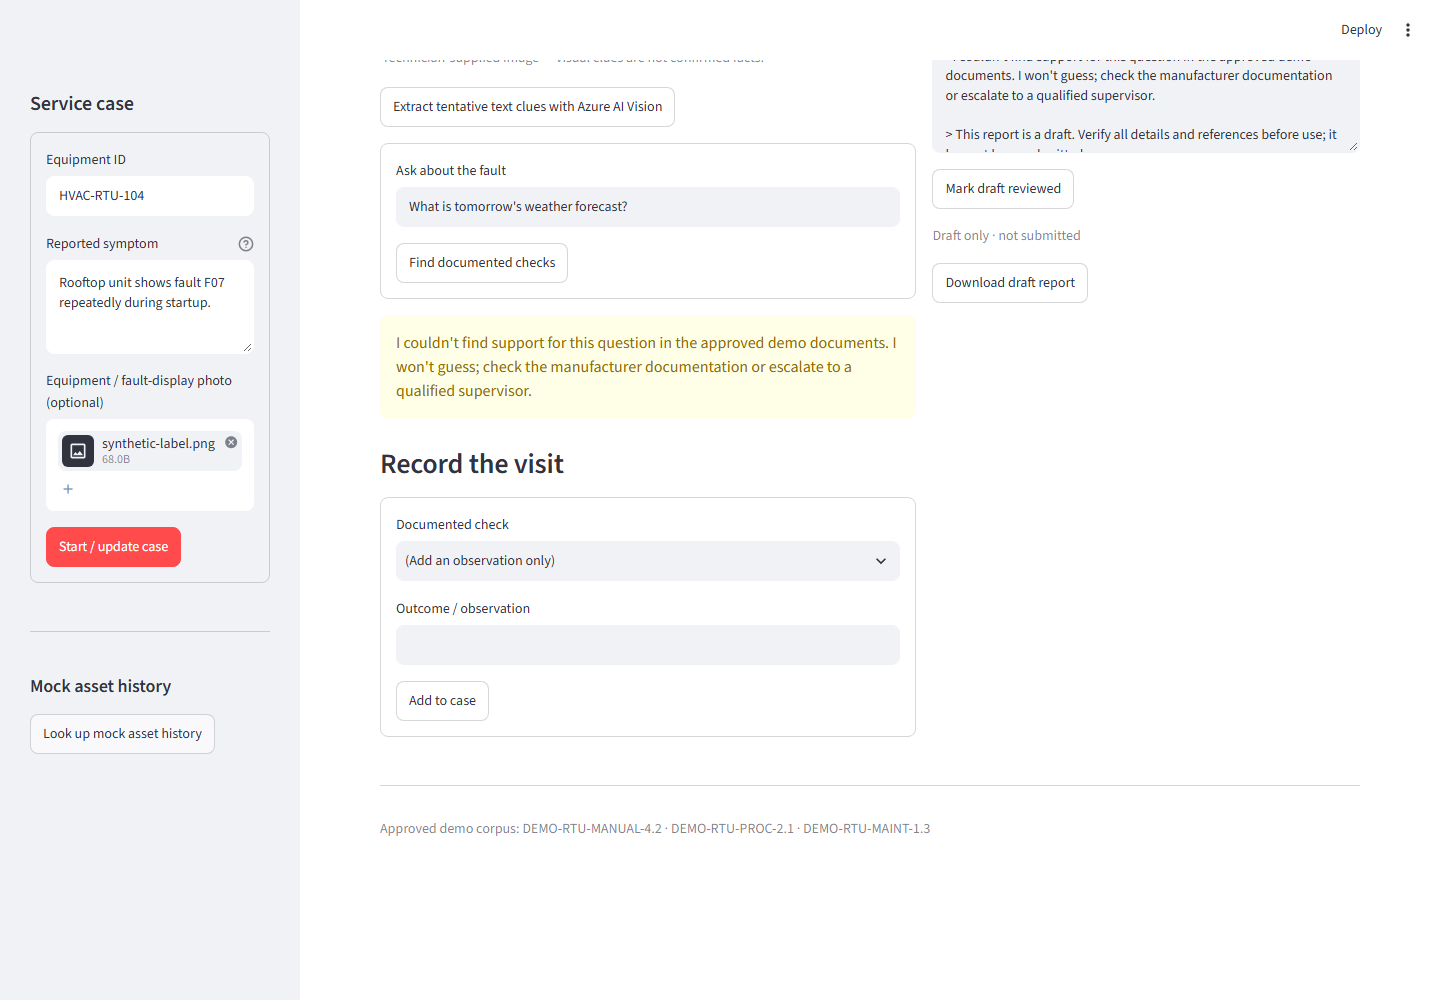
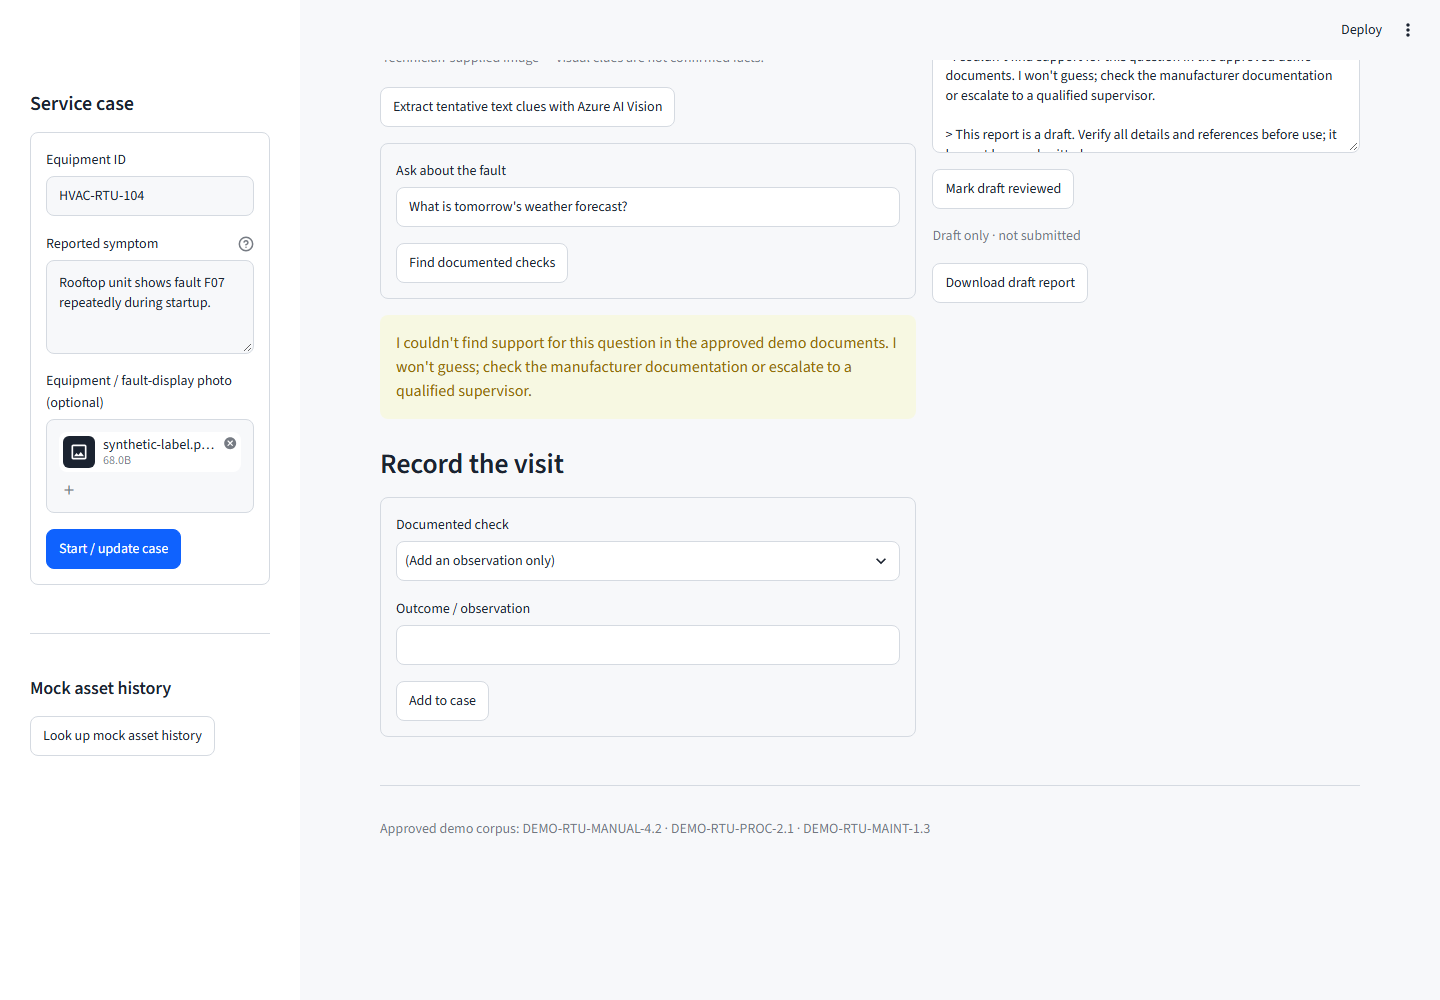
Apply Calm Evidence Workspace theme (#15)

Changed region(s): [[0.0312, 0.682, 0.1562, 0.744], [0.0312, 0.527, 0.125, 0.589], [0.0312, 0.434, 0.1562, 0.465]]

diff --git a/app.py b/app.py
@@ -62,6 +62,18 @@ def _render_explanation(result: dict) -> None:
 
 
 st.set_page_config(page_title="Field Technician Copilot", page_icon="🧰", layout="wide")
+st.markdown(
+    """
+    <style>
+    .block-container { max-width: 1200px; padding-top: 2rem; }
+    h1 { letter-spacing: -0.02em; }
+    [data-testid="stVerticalBlockBorderWrapper"] { background: #FFFFFF; border-radius: 12px; }
+    [data-testid="stExpander"] { background: #FFFFFF; border-radius: 12px; }
+    [data-testid="stAlert"] { border-radius: 12px; }
+    </style>
+    """,
+    unsafe_allow_html=True,
+)
 st.title("🧰 Field Technician Copilot")
 st.caption(
     "A simulated HVAC service assistant. Guidance is grounded in the bundled demo documents; "

diff --git a/docs/SDD.md b/docs/SDD.md
@@ -248,6 +248,10 @@ Vision endpoint/key are optional and must be supplied together. The key is a Git
 
 Public HTTPS ingress has no user authentication or authorization. Regex checks, citations and technician confirmation are demo safeguards, not production access controls. Use only fictional data. Current subscription-wide deployment RBAC is broader than desirable; narrowing it requires a separately reviewed Azure access change.
 
+## 7a. Visual design
+
+The UI follows a "Calm Evidence Workspace" direction: a light neutral theme, thin borders, white cards and a single blue accent. The theme lives in `.streamlit/config.toml` (copied into the image) plus a small CSS block in `app.py`. Widget labels and roles are unchanged, so the AppTest and Playwright suites are unaffected. The direction was chosen from general UI trends because the Mobbin, Dribbble and Land-book galleries could not be browsed; no specific shots are referenced.
+
 ## 8. Requirements traceability and trade-offs
 
 | SRS requirement | Design realization |
